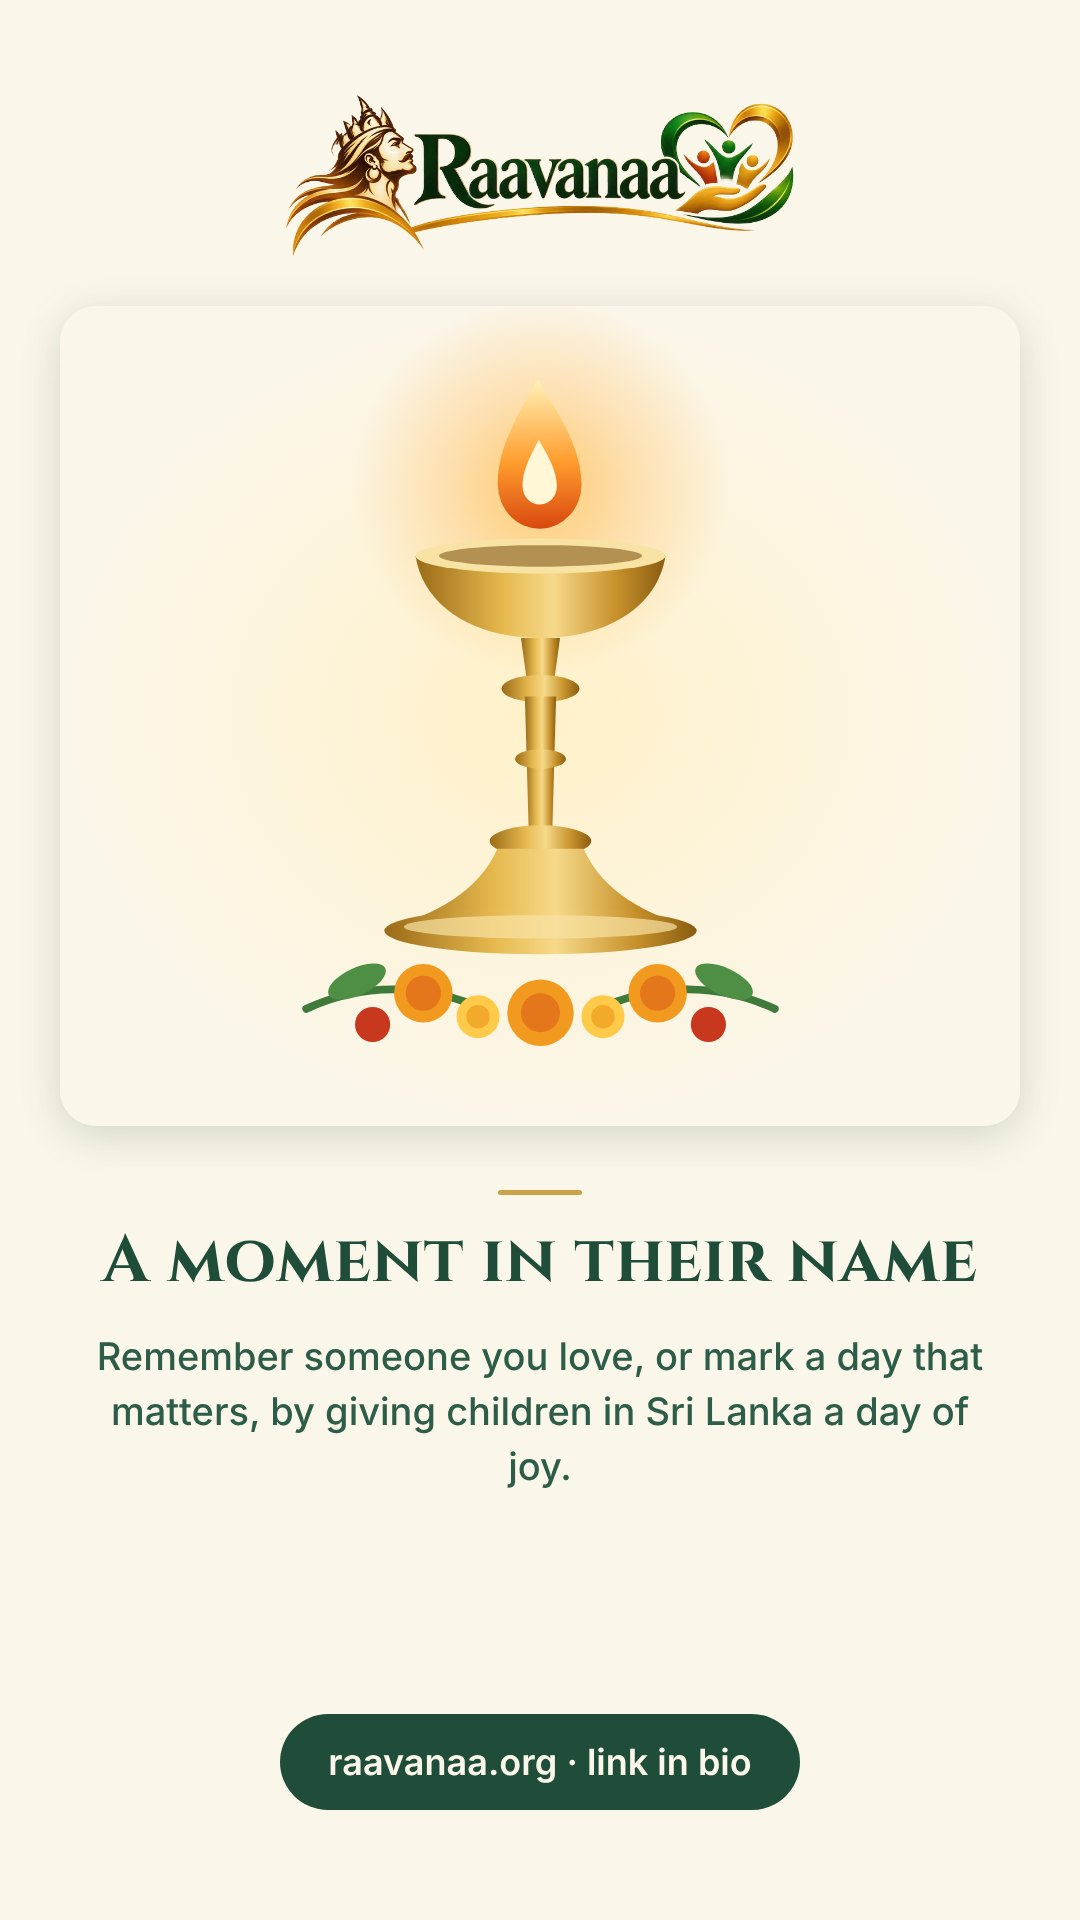
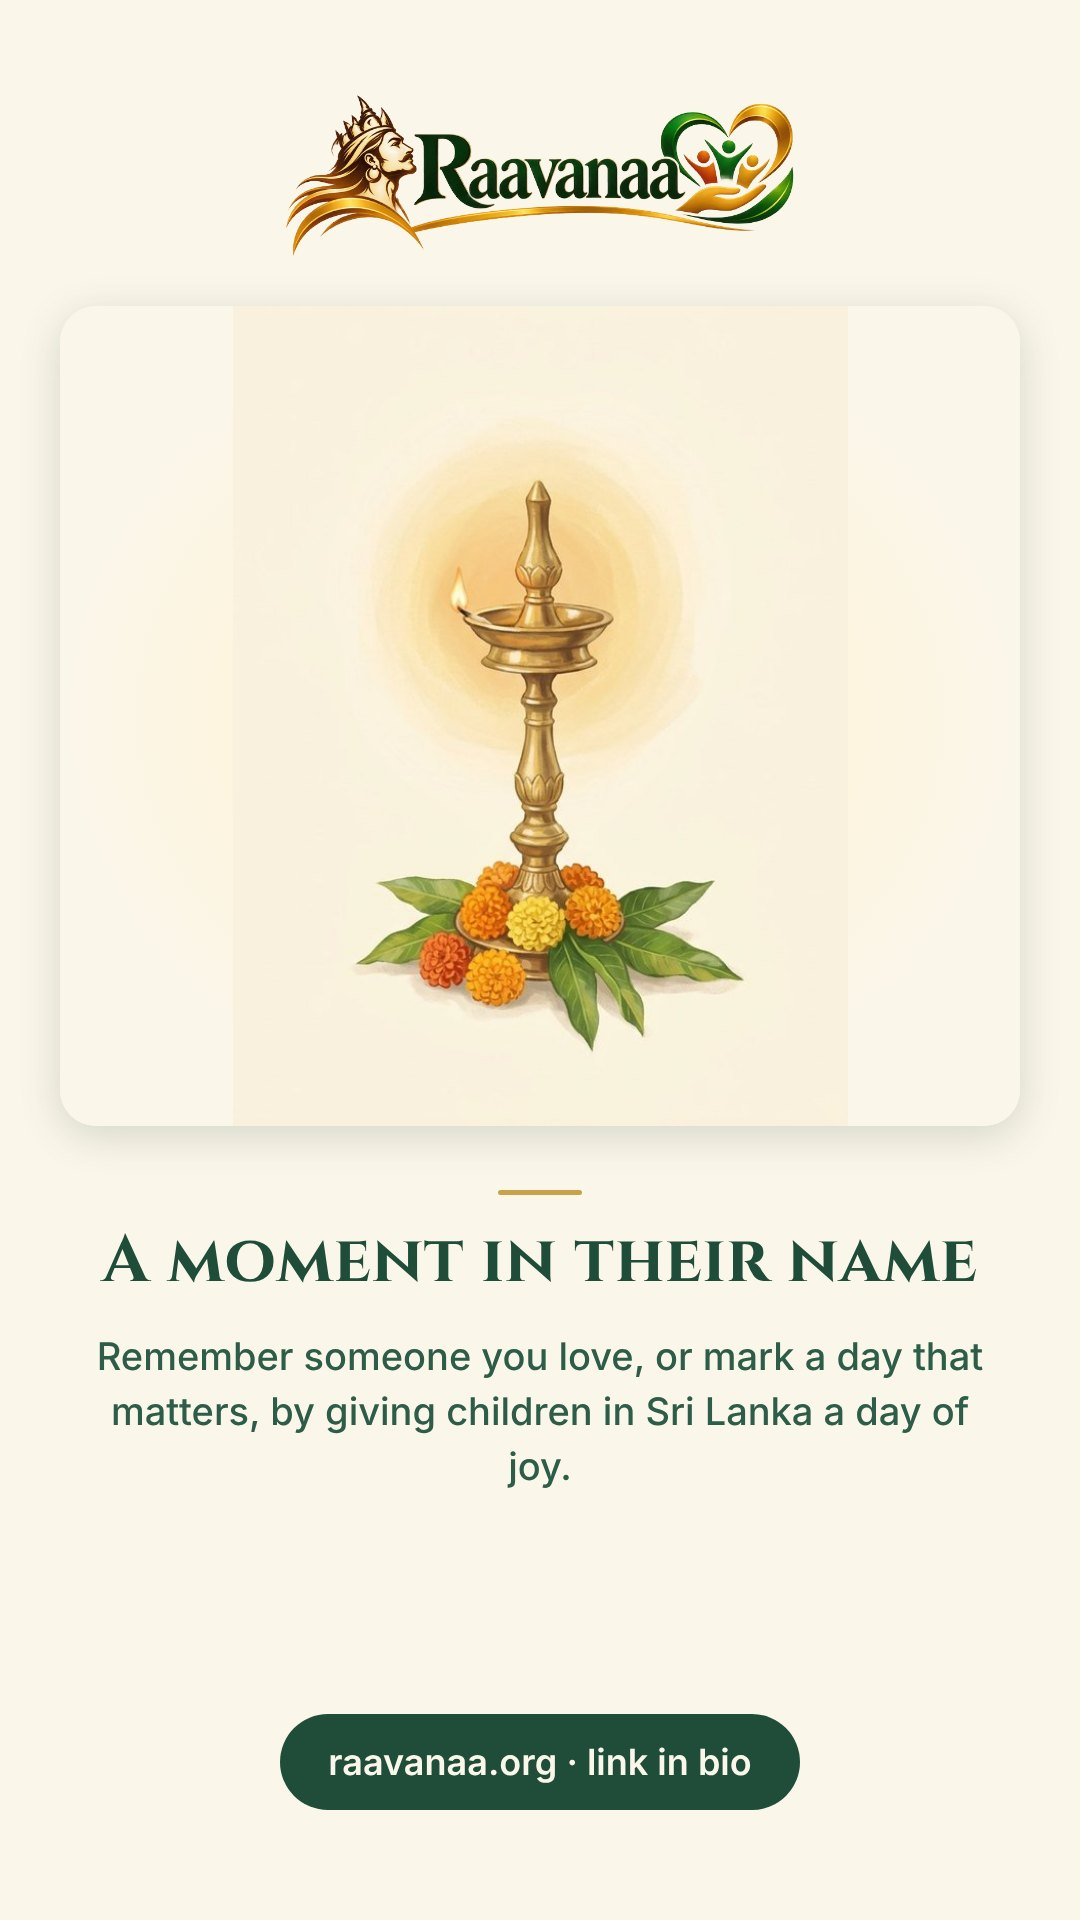
Moment page: Gemini paintings for each reason
Eleven Gemini pictures (made by the moment-pictures workflow, each
checked for no faces and no text), cropped to the subject, shown on the
hero, the live card and the saved card with softly faded edges. The
moment share card uses the lamp painting. The hand-drawn SVGs stay as
a fallback.

Claude-Session: https://claude.ai/code/session_01WRNVJzvHa2RsfwjggjSCpb

Changed region(s): [[0.275, 0.1875, 0.7028, 0.5625]]

diff --git a/moment.js b/moment.js
@@ -58,14 +58,15 @@
   var st = { k: q.get("for") || "memory", custom: "", name: "", note: "", from: "", project: "" };
   if (!OCCASIONS.some(function (o) { return o.k === st.k; })) st.k = "memory";
   var occ = function () { return OCCASIONS.filter(function (o) { return o.k === st.k; })[0]; };
-  var art = function () { return "/img/moment/" + st.k + ".svg"; };
+  // Gemini paintings, one per reason (10 Nov 2026); the hand-drawn .svg versions stay as a fallback.
+  var art = function () { return "/img/moment/" + st.k + ".jpg"; };
   var words = function () { var o = occ(); return o.k === "custom" ? st.custom.trim() : o.words[TA ? 1 : 0]; };
 
   root.innerHTML =
     '<section class="mo-hero">' +
       '<div class="mo-petals" aria-hidden="true">' + Array.apply(null, Array(14)).map(function (_, i) { return '<i style="--i:' + i + '"></i>'; }).join("") + "</div>" +
       '<div class="wrap mo-hero-in">' +
-        '<img class="mo-lamp" data-hero-art src="/img/moment/memory.svg" alt="" width="320" height="420">' +
+        '<img class="mo-lamp" data-hero-art src="/img/moment/memory.jpg" alt="" width="300" height="400">' +
         '<div class="mo-hero-text">' +
           '<p class="mo-kicker">' + T("Raavanaa · A moment in their name", "ராவணா · அவர்கள் பெயரில் ஒரு தருணம்") + "</p>" +
           "<h1>" + T("Some days, we carry someone with us.", "சில நாட்களில், ஒருவரை நம்முடன் சுமந்து செல்கிறோம்.") + "</h1>" +
@@ -97,7 +98,7 @@
       '<aside class="mo-side"><div class="mo-sticky">' +
         '<p class="mo-side-label">' + T("Their card", "அவர்களுக்கான அட்டை") + "</p>" +
         '<figure class="mo-card" data-card>' +
-          '<img class="mo-card-lamp" data-card-art src="/img/moment/memory.svg" alt="" width="96" height="126">' +
+          '<img class="mo-card-lamp" data-card-art src="/img/moment/memory.jpg" alt="" width="150" height="200">' +
           '<p class="mo-card-words" data-c-words></p>' +
           '<p class="mo-card-name" data-c-name></p>' +
           '<p class="mo-card-note" data-c-note></p>' +
@@ -218,8 +219,16 @@
     };
     var img = new Image();
     img.onload = function () {
-      g.drawImage(img, W / 2 - 120, 110, 240, 315);
-      var y = wrap(words() || "", "italic 500 " + (TA ? 40 : 50) + "px " + serif, 500, 860, TA ? 60 : 62, th[1]);
+      // the painting, faded softly into the card at its edges
+      var pw = 300, ph = 400, off = document.createElement("canvas"); off.width = pw; off.height = ph;
+      var o = off.getContext("2d"); o.drawImage(img, 0, 0, pw, ph);
+      o.globalCompositeOperation = "destination-in";
+      o.translate(pw / 2, ph / 2); o.scale(1, ph / pw);
+      var fade = o.createRadialGradient(0, 0, 0, 0, 0, pw / 2);
+      fade.addColorStop(0, "rgba(0,0,0,1)"); fade.addColorStop(.6, "rgba(0,0,0,1)"); fade.addColorStop(1, "rgba(0,0,0,0)");
+      o.fillStyle = fade; o.fillRect(-pw / 2, -pw / 2, pw, pw);
+      g.drawImage(off, W / 2 - 135, 80, 270, 360);
+      var y = wrap(words() || "", "italic 500 " + (TA ? 40 : 50) + "px " + serif, 520, 860, TA ? 60 : 62, th[1]);
       y = wrap(st.name || "", "600 " + (TA ? 64 : 78) + "px " + (TA ? serif : "Cinzel, serif"), y + 70, 900, TA ? 88 : 92, "#1f4d3a");
       if (st.note) y = wrap("“" + st.note + "”", "italic 500 " + (TA ? 34 : 42) + "px " + serif, y + 40, 840, TA ? 54 : 56, "#2d5c48");
       g.strokeStyle = th[2]; g.lineWidth = 2; g.beginPath(); g.moveTo(W / 2 - 220, y + 40); g.lineTo(W / 2 - 40, y + 40); g.moveTo(W / 2 + 40, y + 40); g.lineTo(W / 2 + 220, y + 40); g.stroke();

diff --git a/moment.css b/moment.css
@@ -109,3 +109,7 @@ html[lang="ta"] .mo-card-words{font-style:normal;font-size:17px}
 .mo-card-what{font-family:var(--serif);font-style:italic;color:var(--muted);font-size:16px;margin:0 0 6px}
 .mo-lamp,.mo-card-lamp{transition:opacity .3s}
 .mo-card-lamp{width:110px}
+/* Gemini paintings: cream background, faded softly at the edges so they sit in the page and the card */
+.mo-lamp,.mo-card-lamp{-webkit-mask-image:radial-gradient(ellipse 50% 50% at 50% 50%,#000 70%,transparent 100%);mask-image:radial-gradient(ellipse 50% 50% at 50% 50%,#000 70%,transparent 100%);filter:none;aspect-ratio:3/4;object-fit:cover}
+.mo-card-lamp{width:150px;margin-bottom:0}
+.mo-lamp{max-width:300px}

diff --git a/tools/pictures/make_moment_pictures.py b/tools/pictures/make_moment_pictures.py
@@ -1,0 +1,137 @@
+"""Gemini pictures for "A moment in their name" (/moment): one painted picture for each reason.
+SURESH asked for these on 10 Nov 2026 to replace the hand-drawn img/moment/<reason>.svg.
+Each picture is made with Gemini's image model and then checked by Gemini: no faces, no text.
+Up to 3 tries each. Writes img/moment/<reason>.jpg (portrait 3:4) and img/moment/pictures.json.
+Run by .github/workflows/moment-pictures.yml (needs the GEMINI_API_KEY secret).
+Usage: python3 tools/pictures/make_moment_pictures.py [reason ...]   (no reasons = all)"""
+import base64, io, json, os, sys, time, urllib.error, urllib.request
+
+ROOT = os.path.dirname(os.path.dirname(os.path.dirname(os.path.abspath(__file__))))
+OUT = os.path.join(ROOT, "img", "moment")
+API = "https://generativelanguage.googleapis.com/v1beta/models/{model}:generateContent"
+TEXT_MODEL = os.environ.get("GEMINI_TEXT_MODEL", "")
+IMAGE_MODEL = os.environ.get("GEMINI_IMAGE_MODEL", "")
+
+STYLE = ("A warm, dignified illustration in a soft hand-painted gouache style for a Sri Lankan Tamil charity. "
+         "The subject sits in the centre, isolated on a plain warm cream background (#fbf6ea) that fades softly to cream at every edge, "
+         "with a gentle golden glow behind it and plenty of empty cream space around it. Gold, marigold orange and leaf green accents. "
+         "Absolutely no people, no faces, no figures, no animals, no text, no letters, no numbers, no logos, no watermark, no frame or border. "
+         "Portrait format.")
+PICTURES = {
+    "memory": "A lit brass kuthuvilakku (tall South Indian oil lamp) with a small steady flame, marigold flowers and mango leaves at its base.",
+    "remembrance": "Three small lit clay agal oil lamps resting on a round green lotus leaf, strings of white jasmine flowers around them, calm and quiet.",
+    "birthday": "A small two-tier birthday cake in soft pink and cream with three lit candles, three balloons (pink, gold, green) floating beside it.",
+    "wedding": "Two interlinked gold wedding rings resting on red silk, under a garland of fresh mango leaves and marigolds (a Tamil thoranam), a few jasmine buds.",
+    "newborn": "An empty traditional wooden baby cradle (thottil) hanging from a beam, a soft cotton cloth inside, a crescent moon and small stars above, soft blue night glow.",
+    "success": "A dark blue graduation cap with a gold tassel resting on a rolled certificate tied with a red ribbon, a few gold stars sparkling around.",
+    "recovery": "A young green plant with two fresh leaves growing from rich soil towards a gentle morning sun, dew drops on the leaves, hopeful light.",
+    "gratitude": "Two open cupped hands (only the hands, no arms or bodies) gently holding a glowing red heart, marigold petals falling softly.",
+    "festival": "A traditional clay Pongal pot boiling over with white milk rice, two sugarcane stalks on either side, turmeric leaves tied around the pot, a colourful kolam drawn in front, morning sun.",
+    "honour": "A golden laurel wreath around a shining gold star, a red ribbon at the bottom of the wreath.",
+    "custom": "A single pink lotus flower in full bloom floating on still water with two green lotus leaves.",
+}
+CHECK = """Look at this picture and answer only with JSON:
+{"any_face": true/false, "any_person_or_figure": true/false, "any_text_or_logo": true/false, "note": "one short sentence"}
+Hands alone are not a person or figure."""
+
+
+def pick_models(key):
+    global TEXT_MODEL, IMAGE_MODEL
+    names, token = [], ""
+    while True:
+        url = "https://generativelanguage.googleapis.com/v1beta/models?pageSize=200" + ("&pageToken=" + token if token else "")
+        with urllib.request.urlopen(urllib.request.Request(url, headers={"x-goog-api-key": key}), timeout=60) as r:
+            d = json.load(r)
+        names += [m["name"].split("/", 1)[1] for m in d.get("models", []) if "generateContent" in m.get("supportedGenerationMethods", [])]
+        token = d.get("nextPageToken", "")
+        if not token: break
+    import re
+    def ver(n):
+        m = re.search(r"(\d+(?:\.\d+)?)", n)
+        return float(m.group(1)) if m else 0.0
+    best = lambda c: sorted(c, key=lambda n: (ver(n), "preview" not in n and "exp" not in n), reverse=True)[0] if c else ""
+    if not TEXT_MODEL:
+        TEXT_MODEL = "gemini-flash-latest" if "gemini-flash-latest" in names else best(
+            [n for n in names if n.startswith("gemini") and "flash" in n and not any(w in n for w in ("image", "lite", "tts", "audio", "live", "embedding"))])
+    if not IMAGE_MODEL:
+        img = [n for n in names if "image" in n and n.startswith("gemini")]
+        IMAGE_MODEL = best([n for n in img if "flash" in n]) or best(img)
+    print(f"models: text={TEXT_MODEL} image={IMAGE_MODEL}", flush=True)
+    if not TEXT_MODEL or not IMAGE_MODEL:
+        sys.exit("No usable model. Models this key can use: " + ", ".join(sorted(names)))
+
+
+def call(model, body, key, tries=6):
+    req = urllib.request.Request(API.format(model=model), data=json.dumps(body).encode(),
+                                 headers={"Content-Type": "application/json", "x-goog-api-key": key})
+    for t in range(tries):
+        try:
+            with urllib.request.urlopen(req, timeout=300) as r:
+                return json.load(r)
+        except urllib.error.HTTPError as e:
+            msg = e.read().decode()[:500]
+            if "limit: 0" in msg:
+                sys.exit("Google says this key has no image allowance (free tier, limit 0). Billing must be on for the key's project in AI Studio. " + msg)
+            if e.code in (429, 500, 503) and t < tries - 1:
+                print(f"  ({model} busy, {e.code}; waiting)", flush=True); time.sleep(min(10 * 2 ** t, 120)); continue
+            sys.exit(f"Gemini {model} said {e.code}: {msg}")
+        except (urllib.error.URLError, TimeoutError, OSError) as e:
+            if t < tries - 1: time.sleep(min(10 * 2 ** t, 120)); continue
+            sys.exit(f"Could not reach Gemini: {e}")
+
+
+def text_of(resp):
+    return "".join(p.get("text", "") for c in resp.get("candidates", []) for p in c.get("content", {}).get("parts", []))
+
+
+def make(prompt, key):
+    body = {"contents": [{"role": "user", "parts": [{"text": STYLE + "\n\nThe picture: " + prompt}]}],
+            "generationConfig": {"responseModalities": ["IMAGE"], "imageConfig": {"aspectRatio": "3:4"}}}
+    for c in call(IMAGE_MODEL, body, key).get("candidates", []):
+        for p in c.get("content", {}).get("parts", []):
+            d = p.get("inlineData") or p.get("inline_data")
+            if d and d.get("data"):
+                return base64.b64decode(d["data"]), d.get("mimeType") or d.get("mime_type") or "image/png"
+    return None, None
+
+
+def check(img, mime, key):
+    body = {"contents": [{"role": "user", "parts": [{"inlineData": {"mimeType": mime, "data": base64.b64encode(img).decode()}}, {"text": CHECK}]}],
+            "generationConfig": {"responseMimeType": "application/json", "temperature": 0}}
+    try:
+        r = json.loads(text_of(call(TEXT_MODEL, body, key)))
+    except Exception:
+        return False, {"note": "check did not answer"}
+    return not (r.get("any_face", True) or r.get("any_person_or_figure", True) or r.get("any_text_or_logo", True)), r
+
+
+def main():
+    key = os.environ.get("GEMINI_API_KEY", "")
+    if not key: sys.exit("GEMINI_API_KEY is not set.")
+    from PIL import Image
+    pick_models(key)
+    os.makedirs(OUT, exist_ok=True)
+    want = sys.argv[1:] or list(PICTURES)
+    log_path = os.path.join(OUT, "pictures.json")
+    log = json.load(open(log_path)) if os.path.exists(log_path) else {}
+    for k in want:
+        print(f"{k}:", flush=True)
+        for attempt in range(1, 4):
+            img, mime = make(PICTURES[k], key)
+            if not img:
+                print(f"  try {attempt}: no picture came back", flush=True); continue
+            ok, r = check(img, mime, key)
+            print(f"  try {attempt}: {'ok' if ok else 'rejected'} ({r.get('note', '')})", flush=True)
+            if ok:
+                im = Image.open(io.BytesIO(img)).convert("RGB")
+                if im.width > 900: im = im.resize((900, round(im.height * 900 / im.width)))
+                im.save(os.path.join(OUT, k + ".jpg"), "JPEG", quality=84, optimize=True)
+                log[k] = {"prompt": PICTURES[k], "model": IMAGE_MODEL, "tries": attempt, "check": r, "made": time.strftime("%Y-%m-%d")}
+                break
+        else:
+            print(f"  {k}: no picture passed the check", flush=True)
+    json.dump(log, open(log_path, "w"), indent=1)
+
+
+if __name__ == "__main__":
+    main()

diff --git a/README.md b/README.md
@@ -44,4 +44,4 @@
 - Current: softer logo, squeezed to about 78% height for a shorter header
 - Original stage pages (Initiated / Activated / Impact) with the taller 2:1 banner: commit 43c4d88.
   The original banner pictures are kept as img/hero-initiated-original.svg, hero-activated-original.svg, hero-impact-original.svg.
-- [ ] "A moment in their name" (/moment): replace the hand-drawn picture for each reason (img/moment/*.svg) with Gemini illustrations (SURESH, 10 Nov 2026). Prompts are in the project files (raavanaa-org/moment-page/gemini-prompts.md).
+- [x] "A moment in their name" (/moment): Gemini paintings for each reason (img/moment/<reason>.jpg, made 10 Nov 2026 by .github/workflows/moment-pictures.yml; push the moment-pictures branch with reason keys in tools/pictures/moment-run.txt to make them again). The hand-drawn .svg versions are kept.
